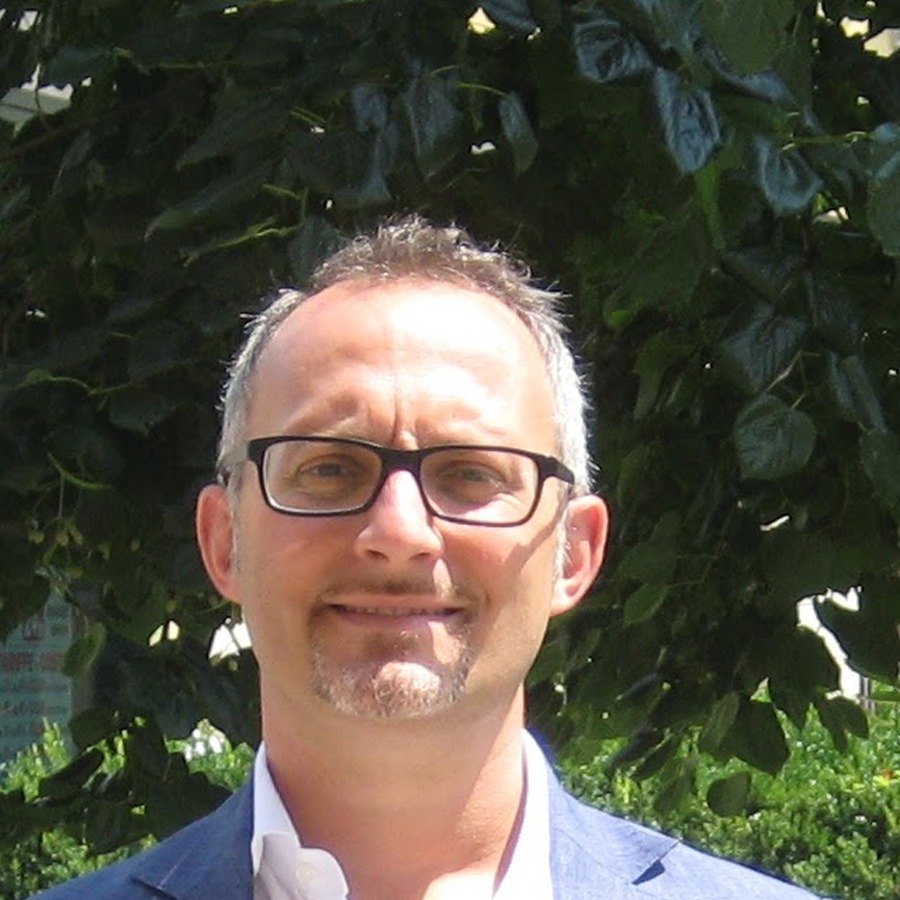
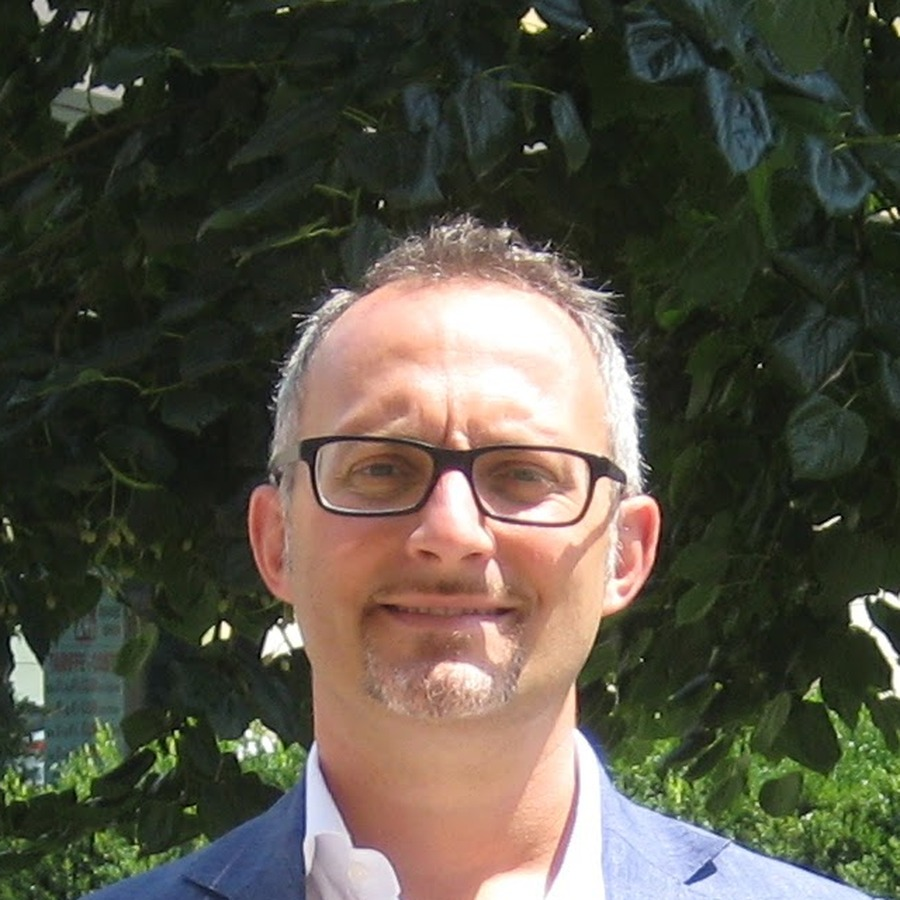
Remove Watch section subtitle; re-center Max's photo crop
The face in max.jpg was shifted left of the frame center; shifted the
source crop right so it's horizontally centered in the circle.

diff --git a/index.html b/index.html
@@ -112,9 +112,8 @@
 <section class="page-section">
   <div class="container">
     <div class="eyebrow">Watch</div>
-    <h2 class="section-title">Presentation</h2>
 
-    <div style="max-width:760px; margin:32px auto 0;">
+    <div style="max-width:760px; margin:20px auto 0;">
       <div class="video-frame">
         <video controls preload="metadata">
           <source src="assets/video/NBER_video_July2025.mp4" type="video/mp4">
